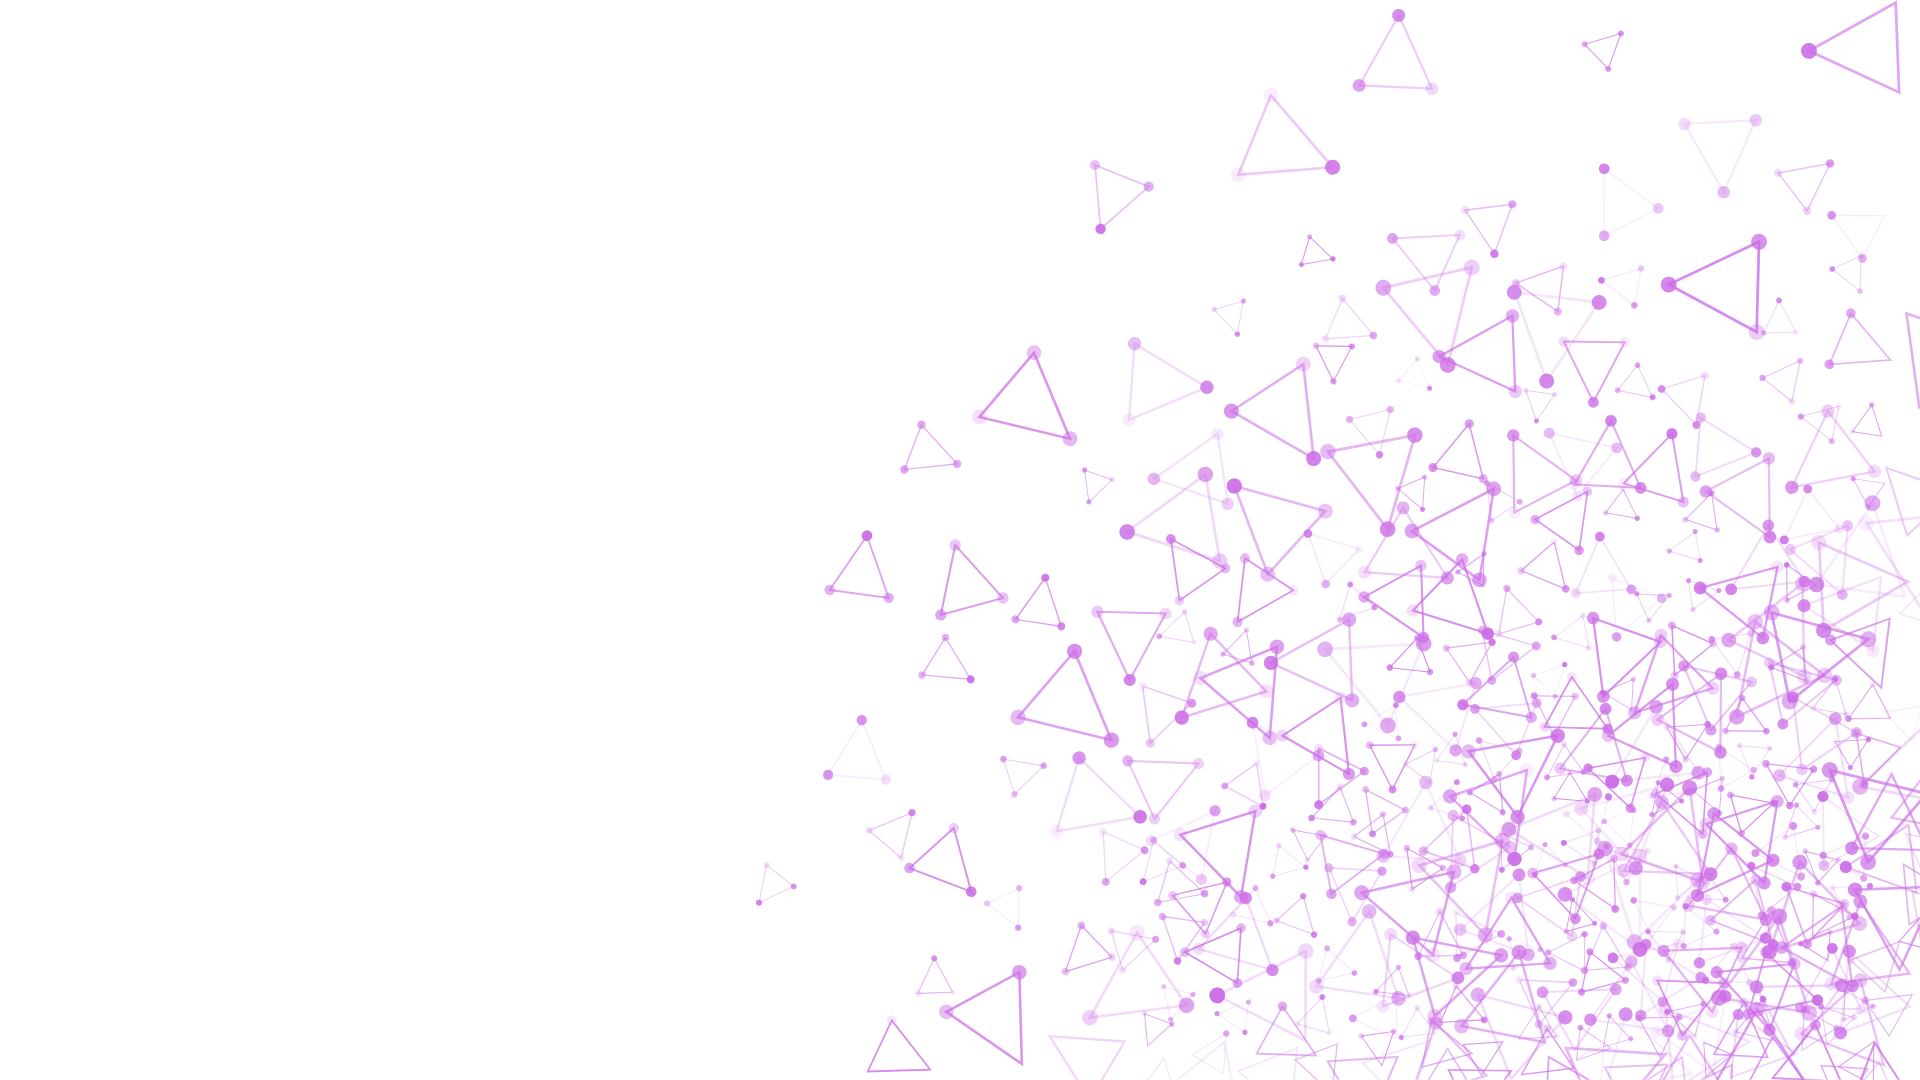
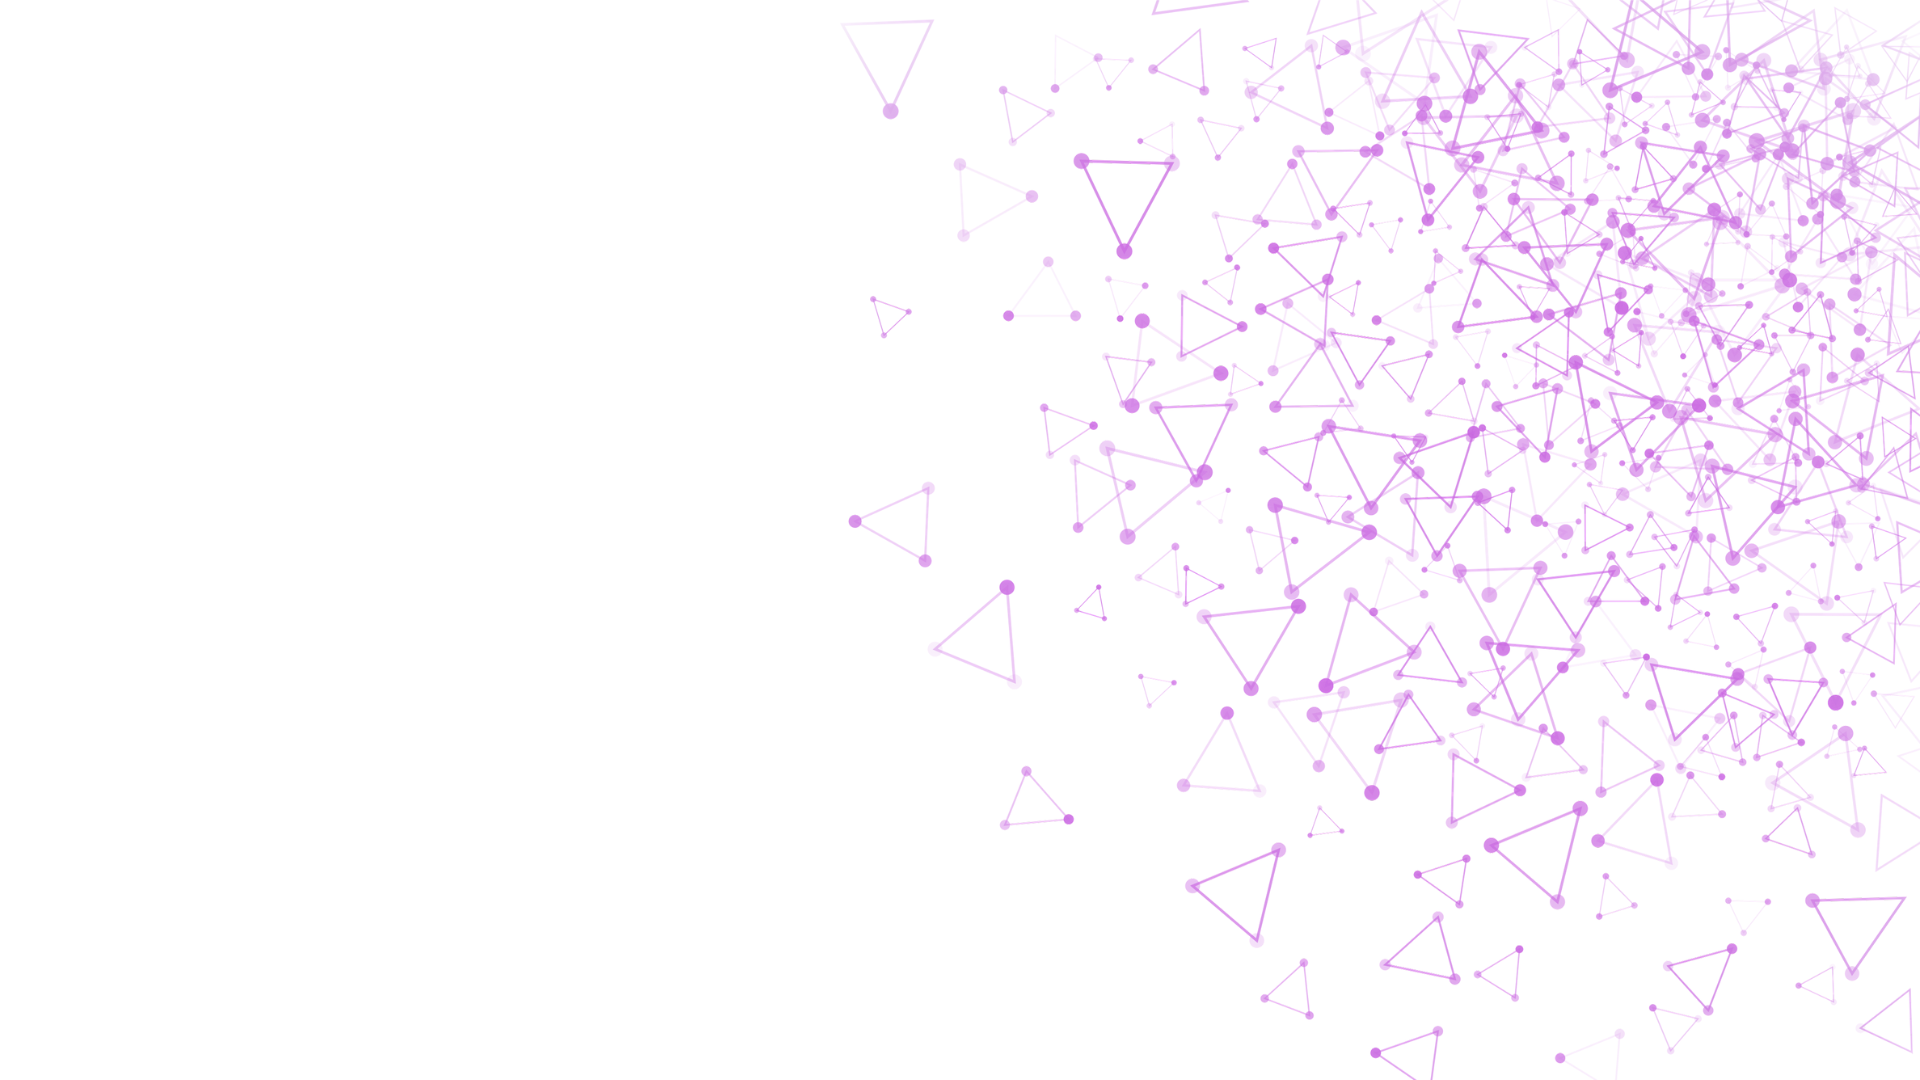
contakt i css fix

diff --git a/src/components/Contact/Contact.jsx b/src/components/Contact/Contact.jsx
@@ -1,6 +1,6 @@
 import React, { useState } from 'react';
 import './Contact.css'; // Import the CSS file for styling
-import { FaLinkedin, FaFacebook, FaInstagram, FaGithub, FaFlickr, FaCopy } from 'react-icons/fa'; // Import social media icons
+import { FaLinkedin, FaFacebook, FaInstagram, FaFlickr, FaCopy } from 'react-icons/fa'; // Import social media icons
 
 function Contact({ translations }) {
   const [formData, setFormData] = useState({
@@ -57,12 +57,11 @@ function Contact({ translations }) {
       <div className="container">
         <div className="left-section">
           <p>{translations.contact1}</p>
-          <div className="social-icons">
-            <a href="https://www.linkedin.com" target="_blank" rel="noopener noreferrer"><FaLinkedin /></a>
-            <a href="https://www.facebook.com" target="_blank" rel="noopener noreferrer"><FaFacebook /></a>
-            <a href="https://www.instagram.com" target="_blank" rel="noopener noreferrer"><FaInstagram /></a>
-            <a href="https://www.github.com" target="_blank" rel="noopener noreferrer"><FaGithub /></a>
-            <a href="https://www.flickr.com" target="_blank" rel="noopener noreferrer"><FaFlickr /></a>
+          <div className="social-icons" style={{ color: 'white', fontSize: '2rem' }}>
+            <a href="https://www.linkedin.com" target="_blank" rel="noopener noreferrer" style={{ color: 'white', marginRight: '10px' }} className="social-icon"><FaLinkedin /></a>
+            <a href="https://www.facebook.com" target="_blank" rel="noopener noreferrer" style={{ color: 'white', marginRight: '10px' }} className="social-icon"><FaFacebook /></a>
+            <a href="https://www.instagram.com" target="_blank" rel="noopener noreferrer" style={{ color: 'white', marginRight: '10px' }} className="social-icon"><FaInstagram /></a>
+            <a href="https://www.flickr.com" target="_blank" rel="noopener noreferrer" style={{ color: 'white', marginRight: '10px' }} className="social-icon"><FaFlickr /></a>
           </div>
           <p>{translations.contact2}</p>
           <p>wojciech.t.jaskula@gmail.com <button onClick={copyEmail}><FaCopy /></button></p>

diff --git a/src/components/Portfolio/Portfolio.css b/src/components/Portfolio/Portfolio.css
@@ -9,7 +9,17 @@
 }
 
 #portfolio::before {
-
+  content: '';
+  position: absolute;
+  top: 0;
+  left: 0;
+  width: 100%;
+  height: 100%;
+  background-image: url('../../assets/2.png');
+  background-size: cover;
+  background-position: center;
+  filter: brightness(40%) blur(1px);
+  z-index: -1; 
 
 }
 #portfolio h2 {
@@ -30,6 +40,7 @@
   display: flex;
   justify-content: space-between;
   align-items: center;
+  
 }
 
 .left-content, .right-content {
@@ -56,6 +67,7 @@
   box-shadow: 0 2px 5px rgba(0, 0, 0, 0.2); /* Subtle shadow */
   text-decoration: none; /* Remove underline */
   display: inline-block; /* Ensure it behaves like a button */
+  
 }
 
 .portfolio-link:hover {
@@ -76,6 +88,7 @@
   text-align: center;
   border: 1px solid rgba(224, 224, 224, 0.5);
   box-shadow: 0 4px 8px rgba(0, 0, 0, 0.2);
+  background-color: rgba(17, 23, 35, 0.5);
 }
 
 

diff --git a/src/components/Header/Header.css b/src/components/Header/Header.css
@@ -112,7 +112,11 @@
   position: static;
   width: 100%; 
   text-align: left;
+  
 }
+
+
+
 
 .job-description .job-title.fade-out {
   opacity: 0;
@@ -125,6 +129,22 @@
 .left-section {
   flex: 1;
   padding-right: 20px;
+  z-index: 1;
+  
+}
+
+.left-section::before{
+  content: '';
+  position: absolute;
+  top: 50px;
+  left: -250px;
+  width: 100%;
+  height: 100%;
+  background-image: url('../../assets/4.png');
+  background-size: cover;
+  background-position: center;
+  filter: brightness(40%) blur(1px);
+  z-index: -1;
 }
 
 .right-section {

diff --git a/src/components/Contact/Contact.css b/src/components/Contact/Contact.css
@@ -88,3 +88,14 @@
 #contact .right-section {
   max-width: 45%;
 }
+
+.social-icons .social-icon {
+  transition: all 0.3s ease;
+}
+
+.social-icons .social-icon:hover {
+  background: linear-gradient(45deg, #ff6b6b, #f06595);
+  -webkit-background-clip: text;
+  -webkit-text-fill-color: transparent;
+  transform: scale(1.2);
+}
